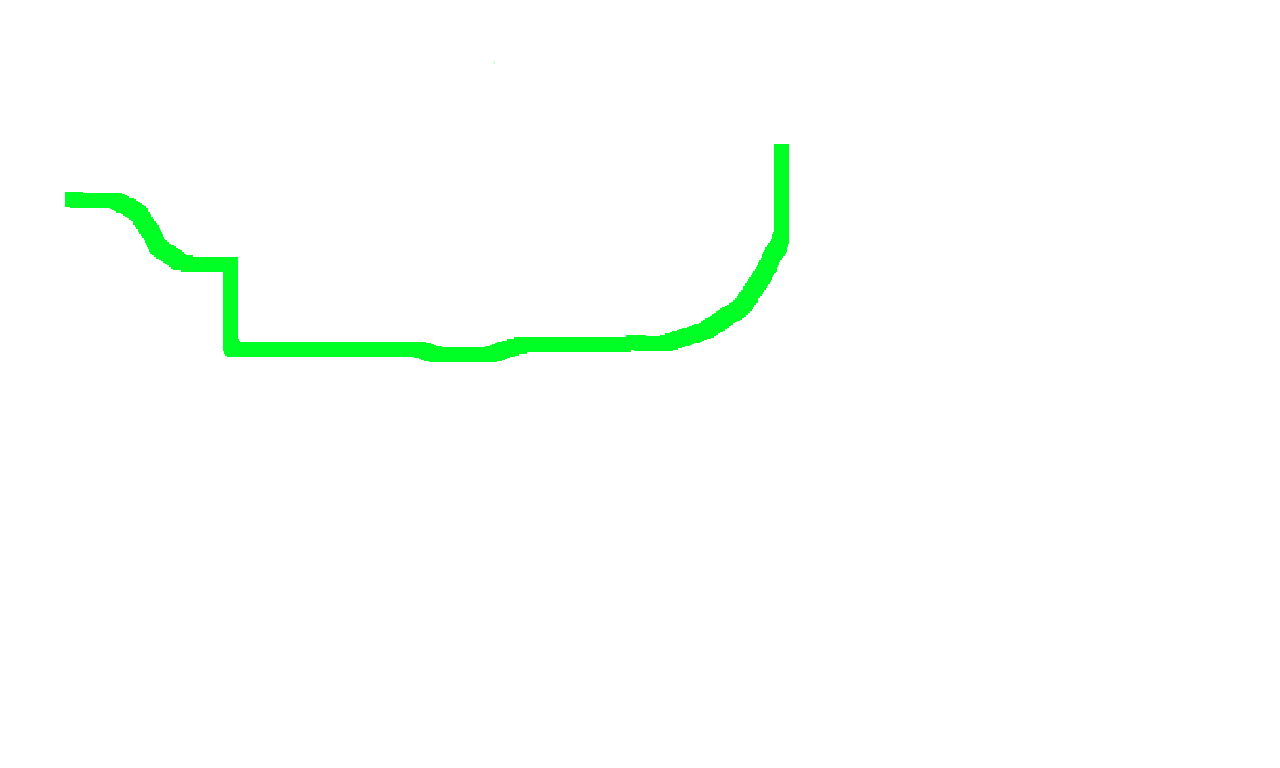
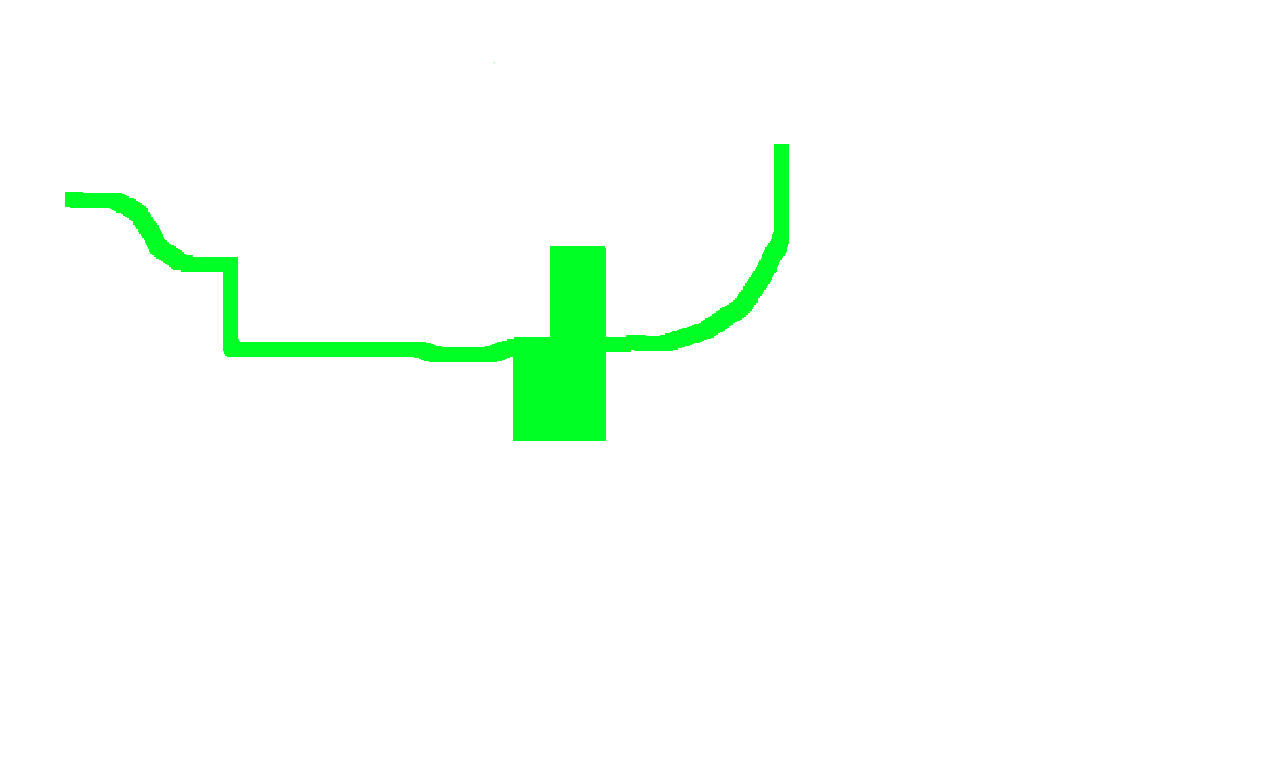
Basher

Changed region(s): [[0.375, 0.3125, 0.5, 0.5938]]

diff --git a/TheLems/TheLems/HlavniOkno.cs b/TheLems/TheLems/HlavniOkno.cs
@@ -313,7 +313,15 @@ namespace TheLems
                             Konstanty.velikostLemaX * 2, Konstanty.velikostLemaY * 2));
                         break;
                     case 1://Sideways
-                        
+                        if (DrawInfo.Spaces.Smer == 1) //Nastaveni spravne pozice X
+                            DrawInfo.Spaces.Pozice.X += 1;
+                        else
+                            DrawInfo.Spaces.Pozice.X -= 15;
+
+                        GrafikaGameLandscape.FillRectangle(Brushes.Transparent,
+                            new Rectangle(DrawInfo.Spaces.Pozice.X,
+                            DrawInfo.Spaces.Pozice.Y - Konstanty.velikostLemaY - 1,
+                            15, Konstanty.velikostLemaY + 2));
                         break;
                     case 2://Diagonal
                         break;
@@ -901,7 +909,122 @@ namespace TheLems
             }
         }
             
-        
+        class Basher : Lemming
+        {
+            int Waiting;
+
+            protected override int Move(Bitmap Popredi, Blocker[] Blockerz)
+            {
+                if (Typ == 0)
+                {
+                    if (Popredi.GetPixel(Pozice.X, Pozice.Y + 1).A == 0)
+                    {
+                        return Fall(Popredi);
+                    }
+                    else
+                    {
+                        if (Falling > Konstanty.velikostLemaY * 4) //BALANCHRY
+                        {
+                            return 1;
+                        }
+                        else
+                        {
+                            Falling = 0;
+                        }
+                        int Navrat = base.Sideways(Popredi, Blockerz);
+
+                        if (Waiting < 20)
+                        {
+                            if (Navrat == 4)
+                            {
+                                Smer *= -1;
+                                Typ = 5;
+                                Waiting = 20;
+                                return 0;
+                            }
+                            else
+                            {
+                                Waiting++;
+                                return 0;
+                            }
+                        }
+                        else
+                        {
+                            if (Navrat != 4)
+                            {
+                                return 3;
+                            }
+                            else
+                            {
+                                Waiting = 20;
+                                return 0;
+                            }
+                        }
+                             
+                    }
+                }
+                else
+                {
+                    if (Popredi.GetPixel(Pozice.X, Pozice.Y + 1).A == 0)
+                    {
+                        return 3;
+                    }
+                    else
+                    {
+                        return Sideways(Popredi, Blockerz);
+                    }
+                }
+            }
+
+            protected override int Sideways(Bitmap Popredi, Blocker[] Blockerz)
+            {
+                if (Waiting > 0) //delay pro animaci kopani
+                {
+                    Waiting--;
+                    return 0;
+                }
+                else if (Waiting == 0) //kop
+                {
+                    Waiting--;
+                    return 7;
+                }
+                else if (Waiting > -16) // posun o vzdalenost kopu dopredu
+                {
+                    if (base.Sideways(Popredi, Blockerz) != 0)
+                        return 3;
+                    else
+                    {
+                        Waiting--;
+                        return 0;
+                    }
+                }
+                else
+                {
+                    if (base.Sideways(Popredi, Blockerz) == 0) //pokud je pred nim volno tak uz nekope
+                        return 3;
+                    else
+                    {
+                        Smer *= -1;
+                        Waiting = 20;
+                        return 0;
+                    }
+                }
+                
+            }
+
+            public Basher(Lemming Zdroj)
+            {
+                Typ = 0;
+                Pozice = Zdroj.Pozice;
+                Falling = Zdroj.Falling;
+                Smer = Zdroj.Smer;
+                detonate = Zdroj.detonate;
+                TicksToDetonation = Zdroj.TicksToDetonation;
+
+                Waiting = 0;
+            }
+        }
+
         Lemming[] Lemmingove;
         Blocker[] Blockerz; 
         Spawn[] Spawny;
@@ -924,20 +1047,17 @@ namespace TheLems
             //Move
             int Cyklus = 0; //v podstate vlastni for cyklus s promenlivym koncem a vice cyklech na jednom i
             while (Cyklus < AktualniPocetZivichLemmingu)
-            { 
-                switch (Lemmingove[Cyklus].Tick(Popredi, Blockerz))
-                {
-                    case 0: //Zije
-                        AktualniLemming.Dalsi = new DrawLemmings(Lemmingove[Cyklus].Pozice, 
+            {
+                AktualniLemming.Dalsi = new DrawLemmings(Lemmingove[Cyklus].Pozice,
                             Lemmingove[Cyklus].Typ, Lemmingove[Cyklus].Smer, false, Lemmingove[Cyklus].TicksToDetonation);
-                        AktualniLemming = AktualniLemming.Dalsi;
-                        break;
 
-
+                switch (Lemmingove[Cyklus].Tick(Popredi, Blockerz))
+                // 0 - zije, 1 - spadnul, 2 - detonate, 3 - zmena na walkera, 4 - odraz od steny, 5 - odraz od blockera
+                // 6 - build stair, 7 - kop horizontalne, 8 - kop diagonalne, 9 - kop dolu
+                {
+                   
                     case 1: //Spadnul
-                        AktualniLemming.Dalsi = new DrawLemmings(Lemmingove[Cyklus].Pozice, Lemmingove[Cyklus].Typ,
-                            Lemmingove[Cyklus].Smer, true, Lemmingove[Cyklus].TicksToDetonation);
-                        AktualniLemming = AktualniLemming.Dalsi;
+                        AktualniLemming.Death = true;
                         if (Lemmingove[Cyklus] is Blocker)
                             (Lemmingove[Cyklus] as Blocker).OdstranSe(Blockerz, AktPocetBlockeru--);
 
@@ -946,9 +1066,7 @@ namespace TheLems
                         continue;//znovu projde to same misto v poli, protoze sem tam presnunul noveho
 
                     case 2: //Detonate
-                        AktualniLemming.Dalsi = new DrawLemmings(Lemmingove[Cyklus].Pozice, Lemmingove[Cyklus].Typ,
-                            Lemmingove[Cyklus].Smer, true, Lemmingove[Cyklus].TicksToDetonation);
-                        AktualniLemming = AktualniLemming.Dalsi;
+                        AktualniLemming.Death = true;
 
                         AktualniSpace.Dalsi = new DrawSpace(0, Lemmingove[Cyklus].Pozice, 0);
                         AktualniSpace = AktualniSpace.Dalsi;
@@ -960,35 +1078,22 @@ namespace TheLems
                         Lemmingove[AktualniPocetZivichLemmingu] = null;
                         continue;//znovu projde to same misto v poli, protoze sem tam presnunul noveho
 
-                    case 3:  //Zmena zpet na Walkera
-                            
-                        Lemmingove[Cyklus].Typ = 0;
+                    case 3:  //Zmena zpet na Walkera  
                         Lemmingove[Cyklus] = new Walker(Lemmingove[Cyklus]);
-                        AktualniLemming.Dalsi = new DrawLemmings(Lemmingove[Cyklus].Pozice, 
-                            Lemmingove[Cyklus].Typ, Lemmingove[Cyklus].Smer, true, Lemmingove[Cyklus].TicksToDetonation);
-                        AktualniLemming = AktualniLemming.Dalsi;
+                        AktualniLemming.Typ = 0;
                         break;
 
-                    case 4: //Otocil se, signal pro climbera, tady nic nemeni oproti walkerovi
-                        AktualniLemming.Dalsi = new DrawLemmings(Lemmingove[Cyklus].Pozice, 
-                            Lemmingove[Cyklus].Typ, Lemmingove[Cyklus].Smer, false, Lemmingove[Cyklus].TicksToDetonation);
-                        AktualniLemming = AktualniLemming.Dalsi;
-                        break;
-
-                    case 5: //Odraz od blockera
-                        AktualniLemming.Dalsi = new DrawLemmings(Lemmingove[Cyklus].Pozice,
-                            Lemmingove[Cyklus].Typ, Lemmingove[Cyklus].Smer, false, Lemmingove[Cyklus].TicksToDetonation);
-                        AktualniLemming = AktualniLemming.Dalsi;
-                        break;
                     case 6://Build stair
-                        AktualniLemming.Dalsi = new DrawLemmings(Lemmingove[Cyklus].Pozice,
-                            Lemmingove[Cyklus].Typ, Lemmingove[Cyklus].Smer, false, Lemmingove[Cyklus].TicksToDetonation);
-                        AktualniLemming = AktualniLemming.Dalsi;
                         AktualniSchod.Dalsi = new DrawStairs(Lemmingove[Cyklus].Pozice, Lemmingove[Cyklus].Smer);
                         AktualniSchod = AktualniSchod.Dalsi;
                         break;
+                    case 7://Kop horizontalne
+                        AktualniSpace.Dalsi = new DrawSpace(1, Lemmingove[Cyklus].Pozice, Lemmingove[Cyklus].Smer);
+                        AktualniSpace = AktualniSpace.Dalsi;
+                        break;
 
                 }
+                AktualniLemming = AktualniLemming.Dalsi;
                 Cyklus++;
             }
 
@@ -1129,6 +1234,13 @@ namespace TheLems
                                 ZbyvajiciItemy[Selected]--;
                             }
                             break;
+                        case 5:
+                            if (!(Lemmingove[KliknutyLemming] is Basher))
+                            {
+                                Lemmingove[KliknutyLemming] = new Basher(Lemmingove[KliknutyLemming]);
+                                ZbyvajiciItemy[Selected]--;
+                            }
+                            break;
                     }
                 }
         }
@@ -1172,7 +1284,7 @@ namespace TheLems
         public Logika(Bitmap Popredi) //Bude vetsinu nacitat ze souboru pro mapu
         {
             this.Popredi = Popredi;
-            Lemmingove = new Lemming[20];
+            Lemmingove = new Lemming[1];
             Selected = 0;
             AktualniPocetZivichLemmingu = 0;
             PocetSpawnutych = 0;
@@ -1194,9 +1306,9 @@ namespace TheLems
 
 
             //FORTESTING
-            Spawny = new Spawn[2];
-            Spawny[0] = new Spawn(30, new Point(500, 300));
-            Spawny[1] = new Spawn(25, new Point(200, 200));
+            Spawny = new Spawn[1];
+            Spawny[0] = new Spawn(30, new Point(400, 300));
+            //Spawny[1] = new Spawn(25, new Point(200, 200));
         }
 
 
